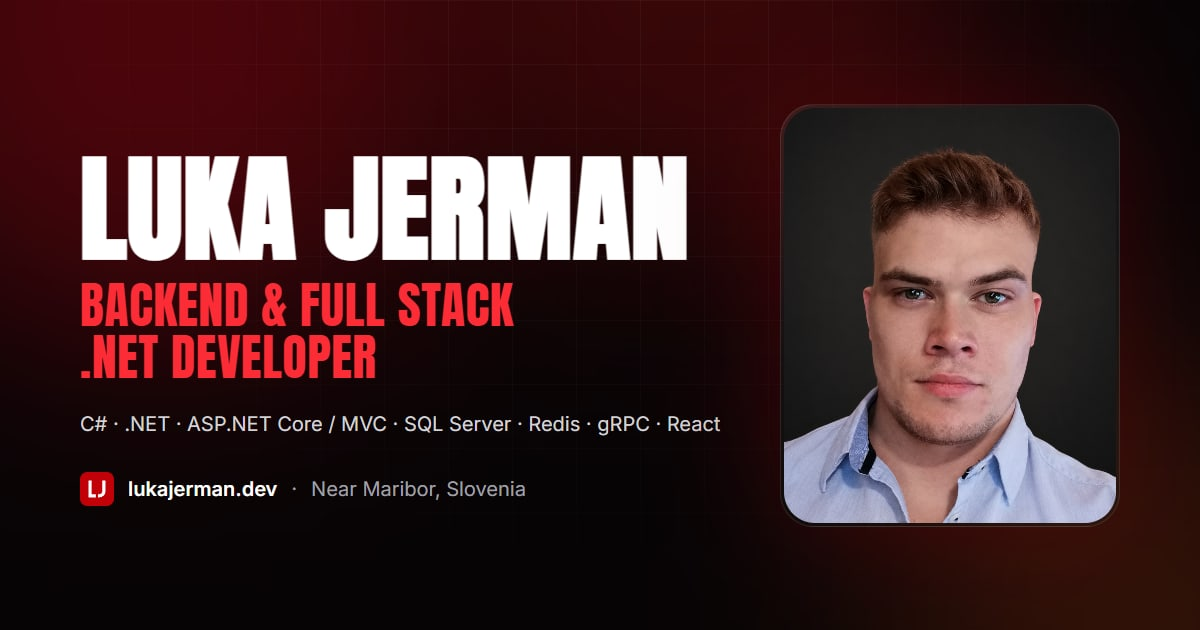
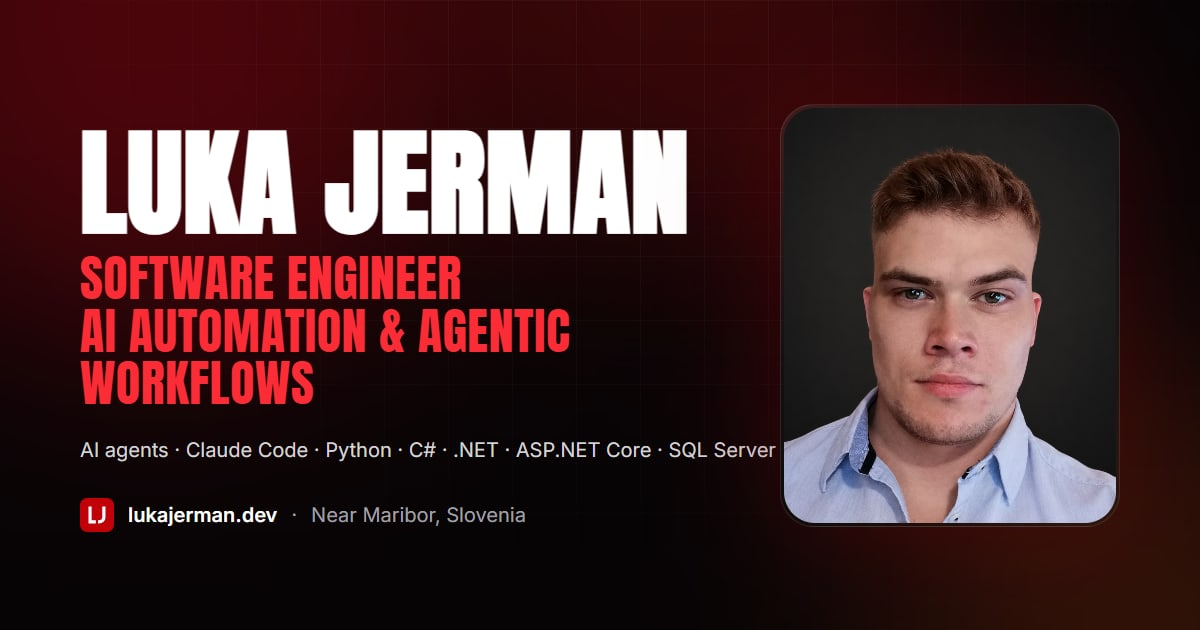
Reposition as a software engineer for AI automation and agentic workflows, to match LinkedIn

Changed region(s): [[0.0617, 0.181, 0.6475, 0.8444]]

diff --git a/src/lib/cv.ts b/src/lib/cv.ts
@@ -17,20 +17,27 @@ export function yearsOfExperience(now = new Date()) {
  * strings is a bullet list under the paragraph before it.
  */
 export const intro: (string | string[])[] = [
-  "I'm a full stack software engineer with a backend focus, experienced in C# and .NET. I've worked on:",
+  "I'm a software engineer building AI agents and automations on top of solid backend and integration work.",
+  "Recently I've built:",
+  [
+    'An agent that turns client scope documents into project estimates.',
+    'An SEO agent that analyses site data and implements fixes in code.',
+    'An automated lead generation pipeline that narrowed 185,584 companies to 12 qualified leads.',
+  ],
+  'Before that, I spent four years on backend and full stack systems in C# and .NET, across three fairly different domains:',
   [
     'Satellite vessel monitoring, for fisheries authorities and fleet operators.',
     'ERP systems for manufacturing and logistics.',
-    'An enterprise document management platform used by banks, healthcare providers and financial institutions.',
+    'An enterprise document management and certified archiving platform used by banks, healthcare providers and financial institutions.',
   ],
-  'I also automate work with AI agents and scripts. I keep the AI in check, so the results are reliable:',
+  'That background is what makes the AI work reliable. Most useful automation is integration work: connecting APIs, data and existing systems without breaking what clients depend on. I also keep the AI in check:',
   [
     "Scripts calculate the numbers, so the AI doesn't guess them.",
     "The data is checked against a template/schema before it's used.",
-    "A person approves every change before it's applied.",
+    "A person reviews every change before it's applied.",
     'Regression tests catch anything that breaks.',
   ],
-  'The work I find most interesting needs me to understand a system before changing it. For example:',
+  'I like understanding a system before changing it. For example:',
   [
     'Tracing a production incident through the logs to its real cause.',
     'Extending an API that enterprise clients depend on, without breaking them.',
@@ -54,20 +61,22 @@ export const experience: Job[] = [
   {
     role: 'Software Engineer',
     org: 'extra.dev',
-    focus: 'AI tooling & client projects',
+    focus: 'AI agents & automation',
     period: 'Oct 2026 to present',
     blurb:
-      'Internal AI tools, pre-sales, and smaller client projects, after the main client engagement ended.',
+      'AI agents and automations for internal workflows, pre-sales and client projects.',
     notes: [
-      "Built a Claude Code skill that turns a client's scope document into the agency's Excel estimate. A Python script does the maths, with JSON Schema validation, 20 reusable presets and 39 tests. Checked and adjusted against 3 real projects, then merged into the company's shared skills repo after code review.",
+      "Built an AI estimation tool (a Claude Code skill) that turns a client's scope document into the agency's Excel estimate. It cut a typical estimate from up to a day of manual work to about 20 minutes plus review. A Python script does the maths, with JSON Schema validation, 20 reusable presets and 39 tests. Checked against 3 real projects, then merged into the company's shared skills repo after code review.",
+      'Built an SEO agent that runs monthly. It pulls data from Google Search Console, PostHog and other sources, scores the site on speed and SEO metrics, and recommends improvements. It can make the code changes itself, and a person reviews each one before it\'s applied.',
+      'Built an automated lead generation pipeline in Python on public business registers, drive-time maps and job APIs. It narrowed 185,584 UK companies to 12 qualified leads. Also built a research skill that writes source-linked company reports.',
+      "Led SEO for the agency's website: 6 PRs, mobile PageSpeed from no score to 78, and 100 in Accessibility, Best Practices and SEO.",
       'Owned a client request end to end on the Django CMS behind a retail client\'s mobile app. Found that the reported "bug" was a feature that had never been built, then scoped and delivered it (18 tests). Coordinated server access with the client\'s system engineer. Did our team\'s first production deploy over VPN, with a database backup and written step-by-step deploy instructions.',
-      'Built a lead generation pipeline in Python on public business registers, drive-time maps and job APIs. It narrowed 185,584 UK companies to 12 qualified leads. Also built a research skill that writes source-linked company reports.',
-      "Led SEO for the agency's website: 6 PRs, mobile PageSpeed from no score to 78, and 100 in Accessibility, Best Practices and SEO. Also built a monthly SEO agent that proposes changes for a person to approve.",
     ],
     stack: [
       'Python',
-      'Django',
       'Claude Code',
+      'AI agents',
+      'Django',
       'JSON Schema',
       'Docker',
       'Linux',
@@ -97,7 +106,9 @@ export const experience: Job[] = [
       '.NET',
       'ASP.NET Core',
       'gRPC',
+      'Roslyn',
       'Pipe-based IPC',
+      'JWT',
       'Redis',
       'Elasticsearch',
       'SQL Server',
@@ -170,18 +181,23 @@ export const education = [
   },
 ];
 
-// .NET stays the first group: it is the main stack. The JSON-LD on the home
-// page lists every item here as knowsAbout, so this is the one place to edit.
+// AI automation leads, .NET backend is second: that's the positioning. The
+// JSON-LD on the home page lists every item here as knowsAbout, so this is the
+// one place to edit, and an item should appear in only one group.
 export const skills = [
+  {
+    group: 'AI automation',
+    items: ['AI agents', 'Agentic workflows', 'Claude Code', 'Python', 'JSON Schema'],
+  },
   {
     group: '.NET backend',
     items: ['C#', '.NET', 'ASP.NET Core / MVC', 'Entity Framework', 'gRPC'],
   },
   { group: 'Data', items: ['SQL', 'SQL Server', 'MySQL', 'Redis', 'Elasticsearch'] },
-  { group: 'Beyond .NET', items: ['Python', 'Django', 'JavaScript', 'React'] },
+  { group: 'Beyond .NET', items: ['Django', 'JavaScript', 'React'] },
   {
     group: 'Tooling',
-    items: ['Docker', 'Linux', 'Git', 'TeamCity', 'AI agents / Claude Code'],
+    items: ['Docker', 'Linux', 'Git', 'TeamCity'],
   },
   {
     group: 'Areas',

diff --git a/src/lib/skills.ts b/src/lib/skills.ts
@@ -36,12 +36,13 @@ export type Skill = {
 };
 
 export const skillLogos: Skill[] = [
+  { name: 'Claude Code', path: siClaude.path, hex: siClaude.hex },
+  { name: 'Python', path: siPython.path, hex: siPython.hex, darkHex: '4B8BBE' },
   { name: 'C#', text: 'C#', hex: '512BD4' },
   { name: '.NET', path: siDotnet.path, hex: siDotnet.hex },
   { name: 'ASP.NET Core / MVC', text: 'ASP', hex: '512BD4' },
   { name: 'JavaScript', path: siJavascript.path, hex: siJavascript.hex },
   { name: 'React', path: siReact.path, hex: siReact.hex },
-  { name: 'Python', path: siPython.path, hex: siPython.hex, darkHex: '4B8BBE' },
   // Django's brand green is near black, so it gets its lighter green here.
   { name: 'Django', path: siDjango.path, hex: siDjango.hex, darkHex: '44B78B' },
   { name: 'SQL Server', text: 'SQL', hex: 'CC2927' },
@@ -62,5 +63,4 @@ export const skillLogos: Skill[] = [
     hex: siTeamcity.hex,
     darkHex: 'E2E8F0',
   },
-  { name: 'Claude Code', path: siClaude.path, hex: siClaude.hex },
 ];

diff --git a/src/lib/seo.ts b/src/lib/seo.ts
@@ -36,9 +36,9 @@ export function personSchema(site: URL, image: URL) {
     name: siteName,
     url: new URL('/', site).href,
     image: image.href,
-    jobTitle: 'Software Engineer',
+    jobTitle: 'Software Engineer, AI Automation & Agentic Workflows',
     description:
-      'Backend and full stack software engineer working in C#, .NET, ASP.NET Core / MVC, SQL Server and React, with a focus on integration systems. Also automates work with AI agents and scripts.',
+      'Software engineer building AI agents and automations on top of backend and integration work in C#, .NET, ASP.NET Core / MVC, SQL Server and Python.',
     // A region rather than a city: I live near Maribor, not in it, and the
     // exact town stays off the site.
     address: {

diff --git a/scripts/og-image.html b/scripts/og-image.html
@@ -146,8 +146,8 @@
     <div class="content">
       <div class="text">
         <h1 class="name">Luka Jerman</h1>
-        <p class="role">Backend &amp; Full Stack<br />.NET Developer</p>
-        <p class="stack">C# · .NET · ASP.NET Core / MVC · SQL Server · Redis · gRPC · React</p>
+        <p class="role">Software Engineer<br />AI Automation &amp; Agentic Workflows</p>
+        <p class="stack">AI agents · Claude Code · Python · C# · .NET · ASP.NET Core · SQL Server</p>
         <p class="meta">
           <svg viewBox="0 0 64 64" aria-hidden="true">
             <rect width="64" height="64" rx="14" fill="currentColor" />

diff --git a/src/content/projects/agency-website-seo.md b/src/content/projects/agency-website-seo.md
@@ -20,10 +20,11 @@ Built at extra.dev, on the agency's own website. The code isn't public.
 - Set up Search Console, GA4 and Ahrefs.
 - Shipped 6 PRs: redirects, analytics events, font and layout fixes, and
   mobile performance.
-- Built a monthly SEO agent. It pulls Search Console and PostHog data and
-  writes a plain-English report.
-- The agent proposes up to 3 changes a month. A person approves each one
-  before it's applied.
+- Built a monthly SEO agent. It pulls Search Console, PostHog and other
+  data, scores the site on speed and SEO metrics, and writes a plain-English
+  report.
+- The agent recommends up to 3 changes a month and can make the code changes
+  itself. A person reviews each one before it's applied.
 
 ## Results
 
